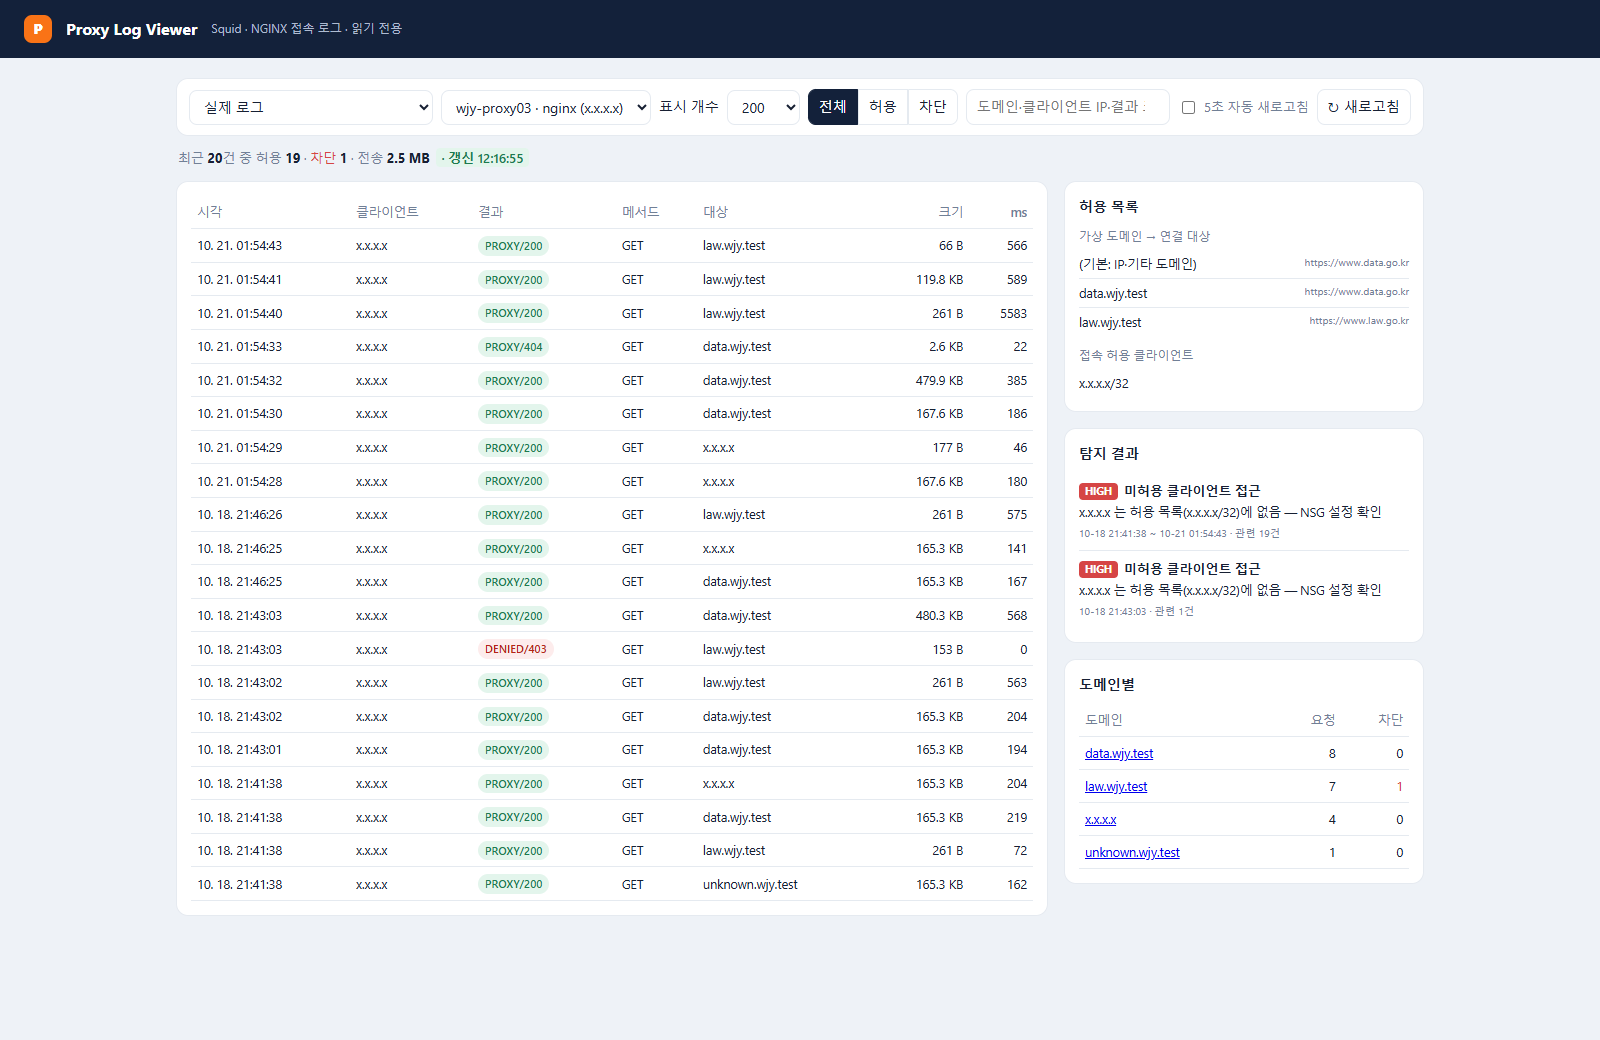
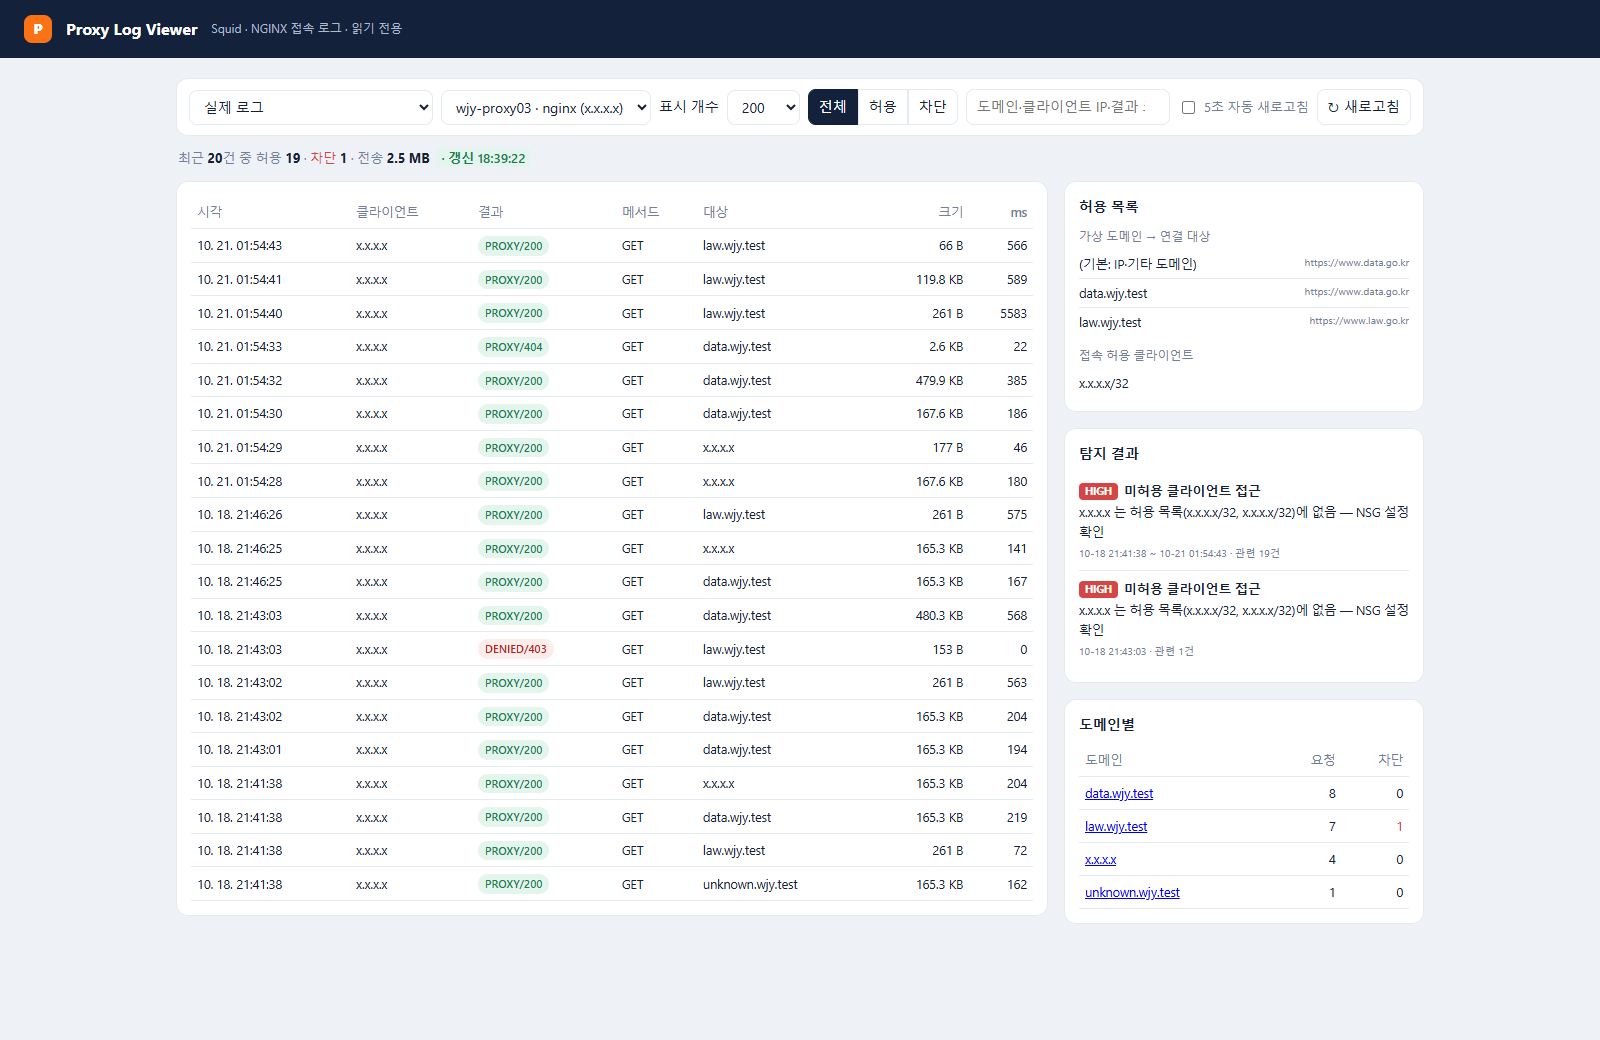
README 허브·프록시 로그 화면 재촬영(새 허브 화면, 실제 실행 로그), 로그 줄 설명 추가
capture_readme.py hub: 로그 끝이 아니라 마지막 실제 실행 시작 줄로 스크롤해 찍는다.

Changed region(s): [[0.6562, 0.4615, 0.875, 0.8615], [0.8125, 0.7077, 0.875, 0.8], [0.8125, 0.8308, 0.875, 0.8615]]

diff --git a/test/capture_readme.py b/test/capture_readme.py
@@ -188,6 +188,16 @@ def viewer(page):
     shot(page, "wiki-viewer.png")
 
 
+def scroll_to_last(page, marker: str):
+    """#slog 에서 marker 가 마지막으로 나온 줄이 맨 위에 오도록 스크롤한다(줄 높이로 계산)."""
+    page.locator("#slog").evaluate("""(el, m) => {
+      const lines = el.textContent.split(String.fromCharCode(10)); let i = -1;
+      lines.forEach((l, k) => { if (l.includes(m)) i = k; });
+      if (i < 0) { el.scrollTop = el.scrollHeight; return; }
+      el.scrollTop = Math.max(0, i - 1) * (el.scrollHeight / lines.length);
+    }""", marker)
+
+
 def hub(page):
     ready(page, SITES["hub"])
     page.locator("#rows button").first.wait_for()
@@ -196,13 +206,13 @@ def hub(page):
     with page.expect_response(lambda r: "/api/log?" in r.url and "scenario2" in r.url):
         page.locator('button.slog[data-key="scenario2"]').click()
     page.wait_for_function("document.querySelector('#slog').textContent.length > 100")
-    # 끝부분에 방금 수행한 dry-run 비교 결과가 나온다.
-    page.locator("#slog").evaluate("el => el.scrollTop = el.scrollHeight")
+    # 마지막 실제 실행(승인까지 한 실행) 시작 줄로 스크롤한다. 그 뒤의 '새로 읽기' 기록 줄은 화면 아래로 밀린다.
+    scroll_to_last(page, "시작: proxy_status_sync.py ")
     shot(page, "hub-scenarios.png")
     with page.expect_response(lambda r: "/api/log?" in r.url and "scenario3" in r.url):
         page.locator('button.slog[data-key="scenario3"]').click()
     page.wait_for_function("document.querySelector('#slog').textContent.includes('incident_response')")
-    page.locator("#slog").evaluate("el => el.scrollTop = el.scrollHeight")
+    scroll_to_last(page, "시작: incident_response.py")
     shot(page, "scenario3-run.png")
 
 
